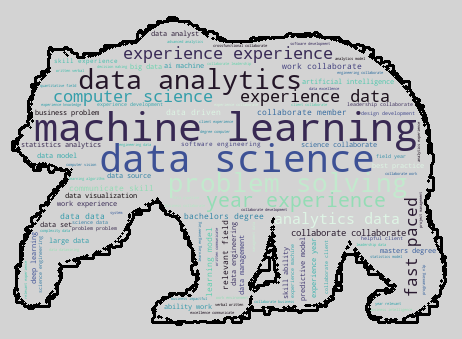
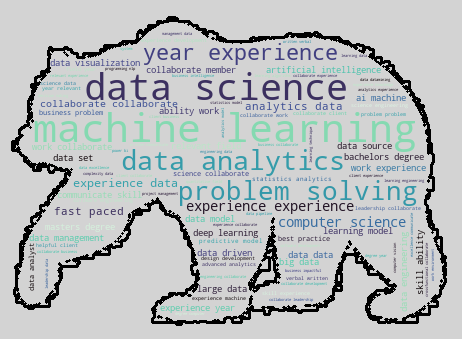
completed bigrams and begun parsing combined term list

Changed region(s): [[0.0303, 0.0885, 0.9394, 0.944]]

diff --git a/nlp_main.py b/nlp_main.py
@@ -3121,13 +3121,13 @@ def visualize_n_grams(n_grams, ds_cred_terms, terms_for_nlp):
         mask_bigram = bigrams.grams.isin(bigram_match_to_cred_list)
         bigrams_df_sns = bigrams[mask_bigram]
 
-####### !!!!!!!! WORKING HERE - Visualize credential list | NEXT STEP: deconflict mono and bi #########        
-        # MIGHT NEED TO DROP MONOGRAMS THAT ALSO APPEAR IN BIGRAM LIST
+####### !!!!!!!! WORKING HERE - Visualize credential list | NEXT STEP: deconflict mono and bi, probably a manual curation #########        
         
         # add the monograms and bigrams
         mono_bi_combined_sns = pd.concat([monograms_df_sns, bigrams_df_sns], axis=0, ignore_index=True)
         
-        # filter down to exclude noisy terms, like collaborate
+        # filter down to exclude noisy, duplicate or unhelpful terms and phrases
+        terms_redacted = ['data', 'data analytics']
 
         # create a horizontal barplot visualizing data science credentials
         ax = sns.barplot(x='count', y='grams', data=monograms_df_sns, orient='h', palette='mako_r') # crest, mako, 'mako_d, Blues_d, mako_r, ocean, gist_gray, gist_gray_r, icefire
